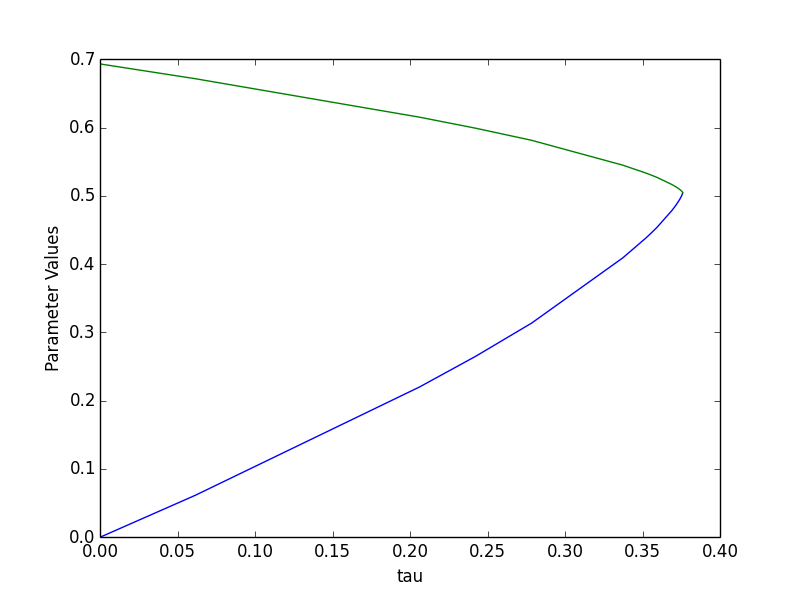
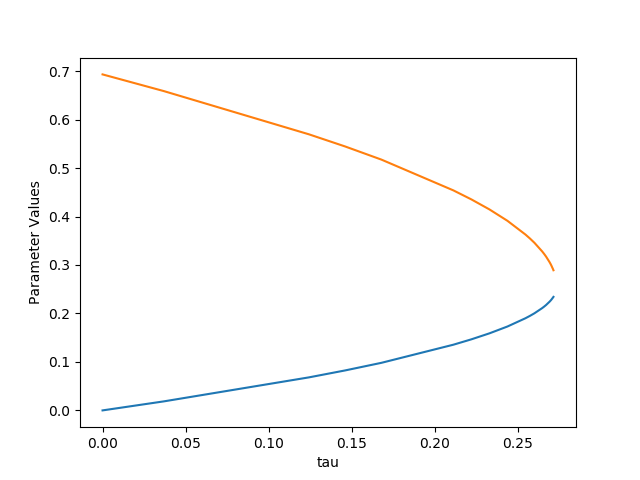
Fixing a typo in exp_example.py jacobian and updating figure

diff --git a/exp_example.py b/exp_example.py
@@ -14,8 +14,8 @@ def r(x):
     
 # Jacobian
 def j(x):
-    return np.array([ [ -0.5*exp(x[0])*exp(-x[0]*0.5), -2.0*exp(x[0])*exp(-x[0]*2)],
-                          [ -0.5*exp(x[1])*exp(-x[1]*0.5), -2.0*exp(x[1])*exp(-x[1]*2)] ] )
+    return np.array([ [ -0.5*exp(x[0])*exp(-exp(x[0])*0.5), -2.0*exp(x[0])*exp(-exp(x[0])*2)],
+                          [ -0.5*exp(x[1])*exp(-exp(x[1])*0.5), -2.0*exp(x[1])*exp(-exp(x[1])*2)] ] )
 
 # Directional second derivative
 def Avv(x,v):
@@ -32,7 +32,7 @@ v = InitialVelocity(x, j, Avv)
 def callback(geo):
     # Integrate until the norm of the velocity has grown by a factor of 10
     # and print out some diagnotistic along the way
-    print "Iteration: %i, tau: %f, |v| = %f" %(len(geo.vs), geo.ts[-1], np.linalg.norm(geo.vs[-1]))
+    print("Iteration: %i, tau: %f, |v| = %f" %(len(geo.vs), geo.ts[-1], np.linalg.norm(geo.vs[-1])))
     return np.linalg.norm(geo.vs[-1]) < 10.0
 
 # Construct the geodesic
